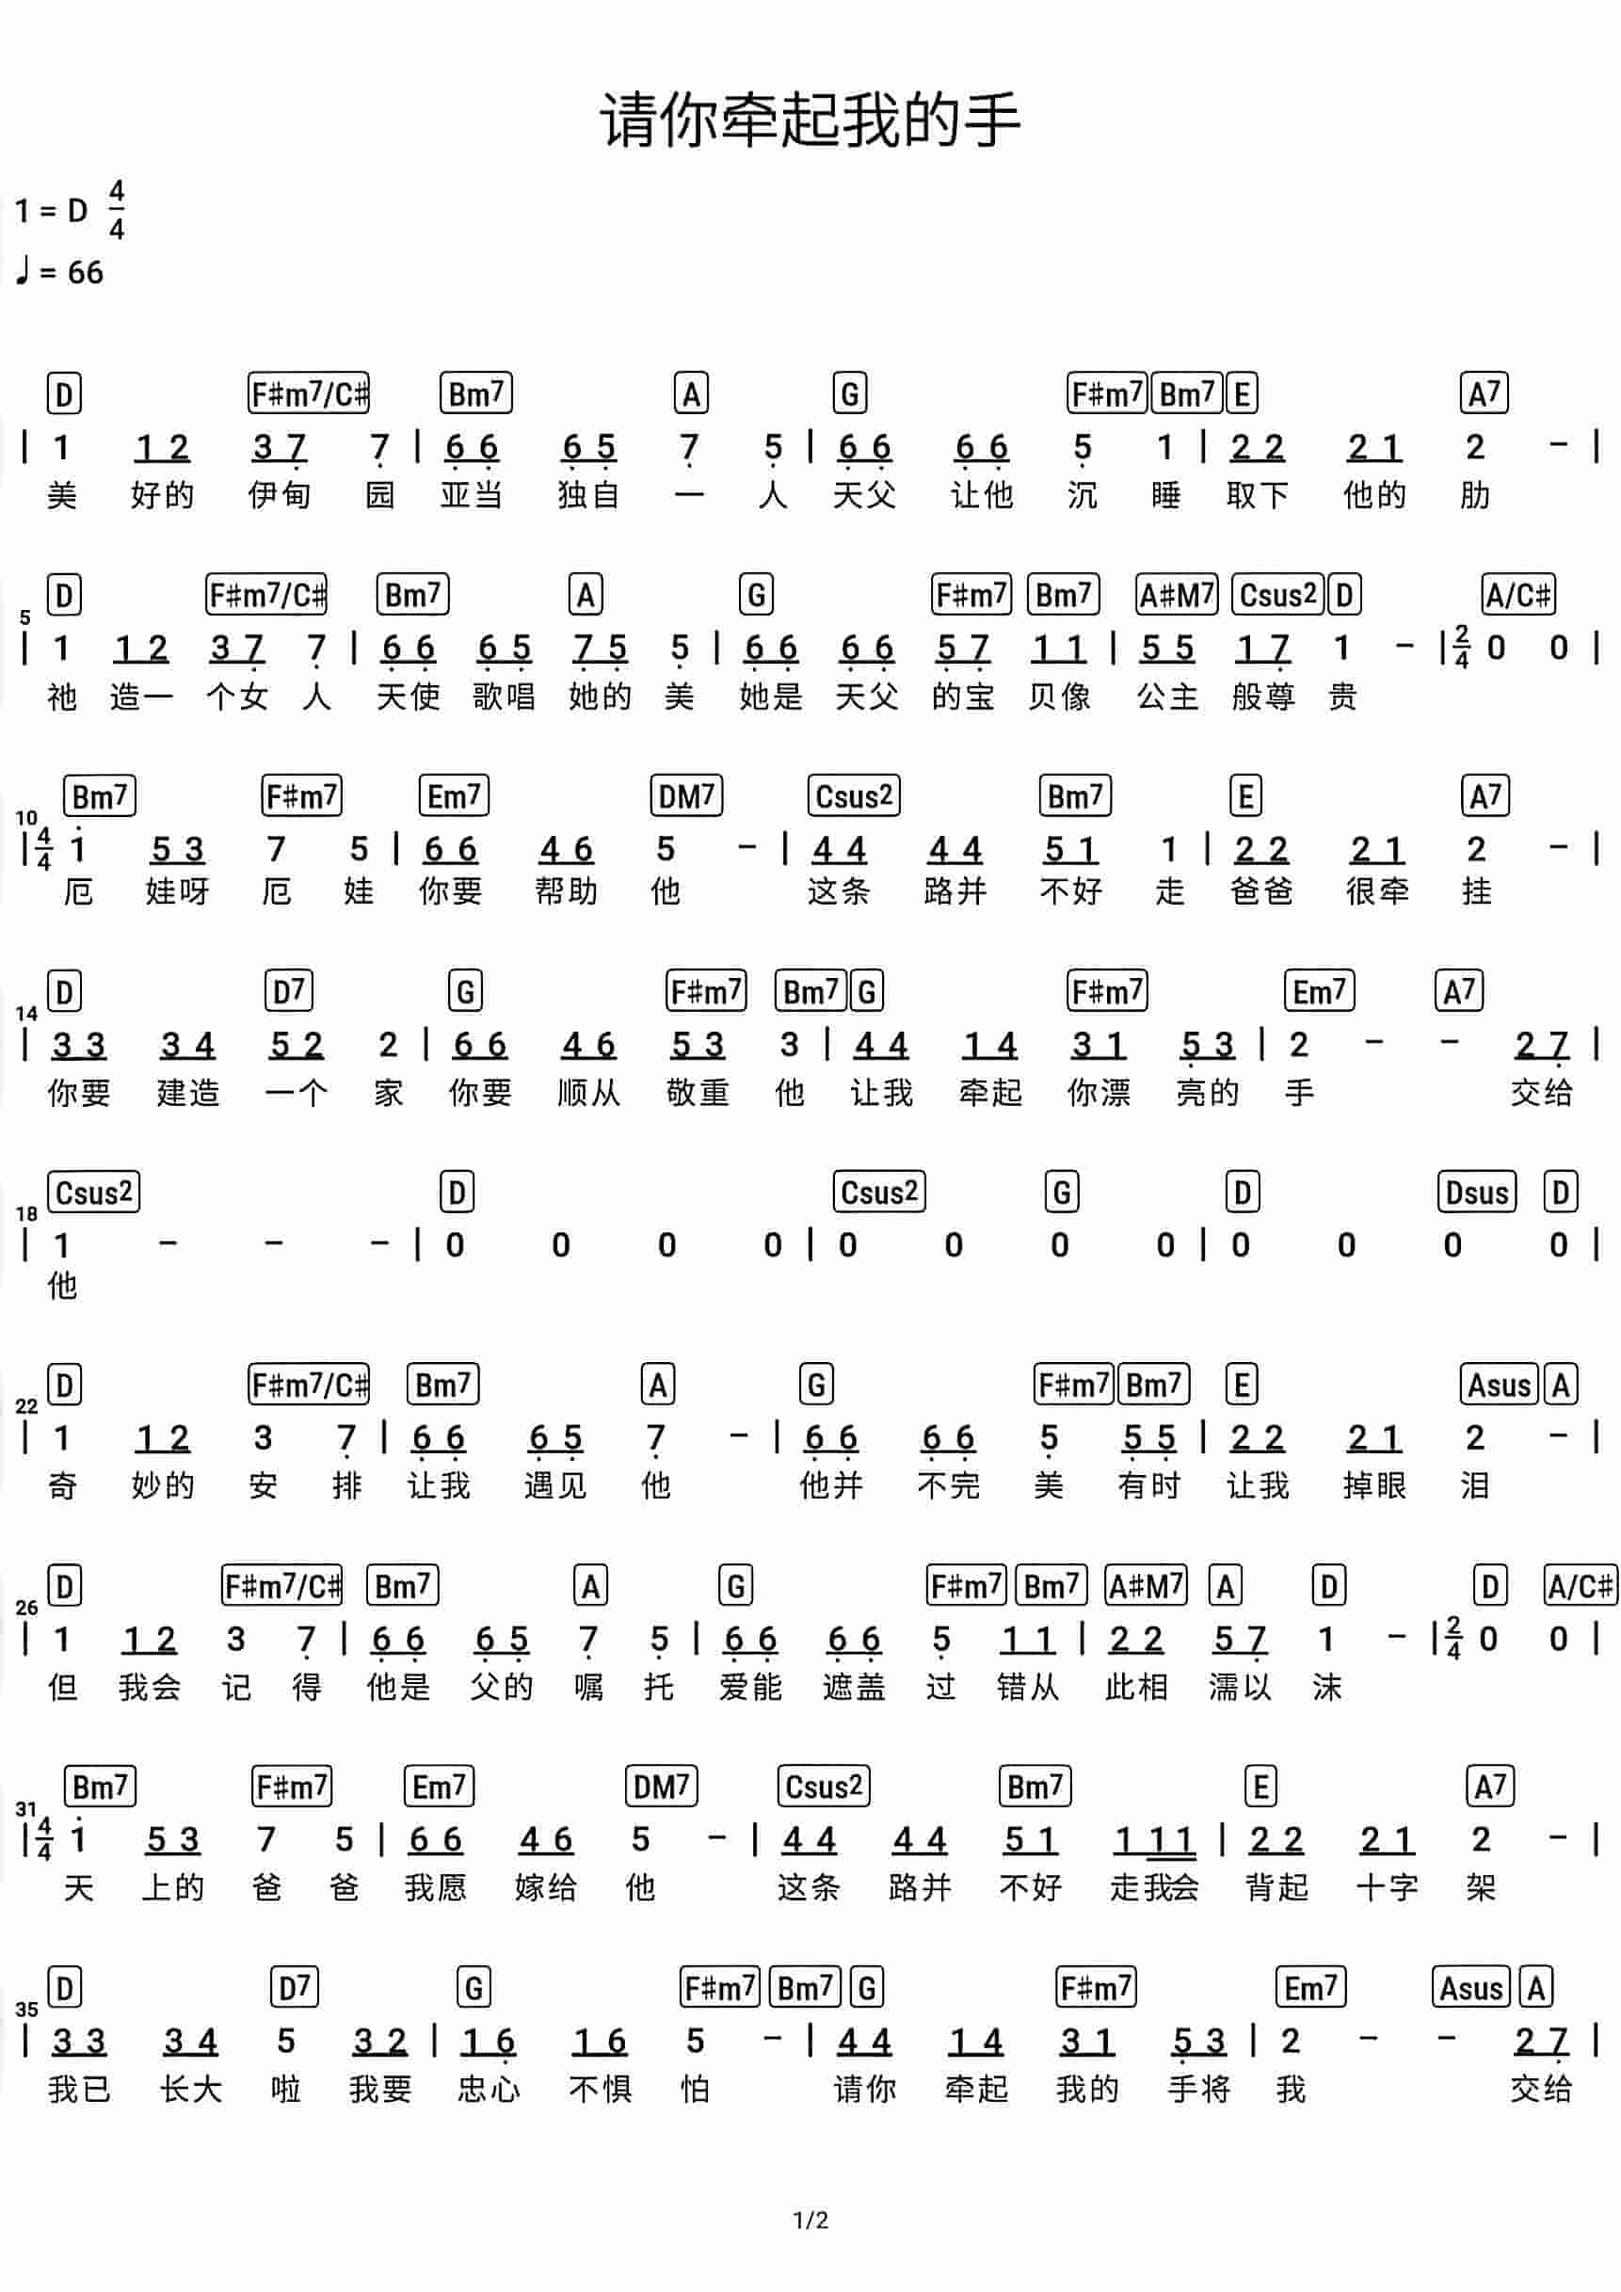
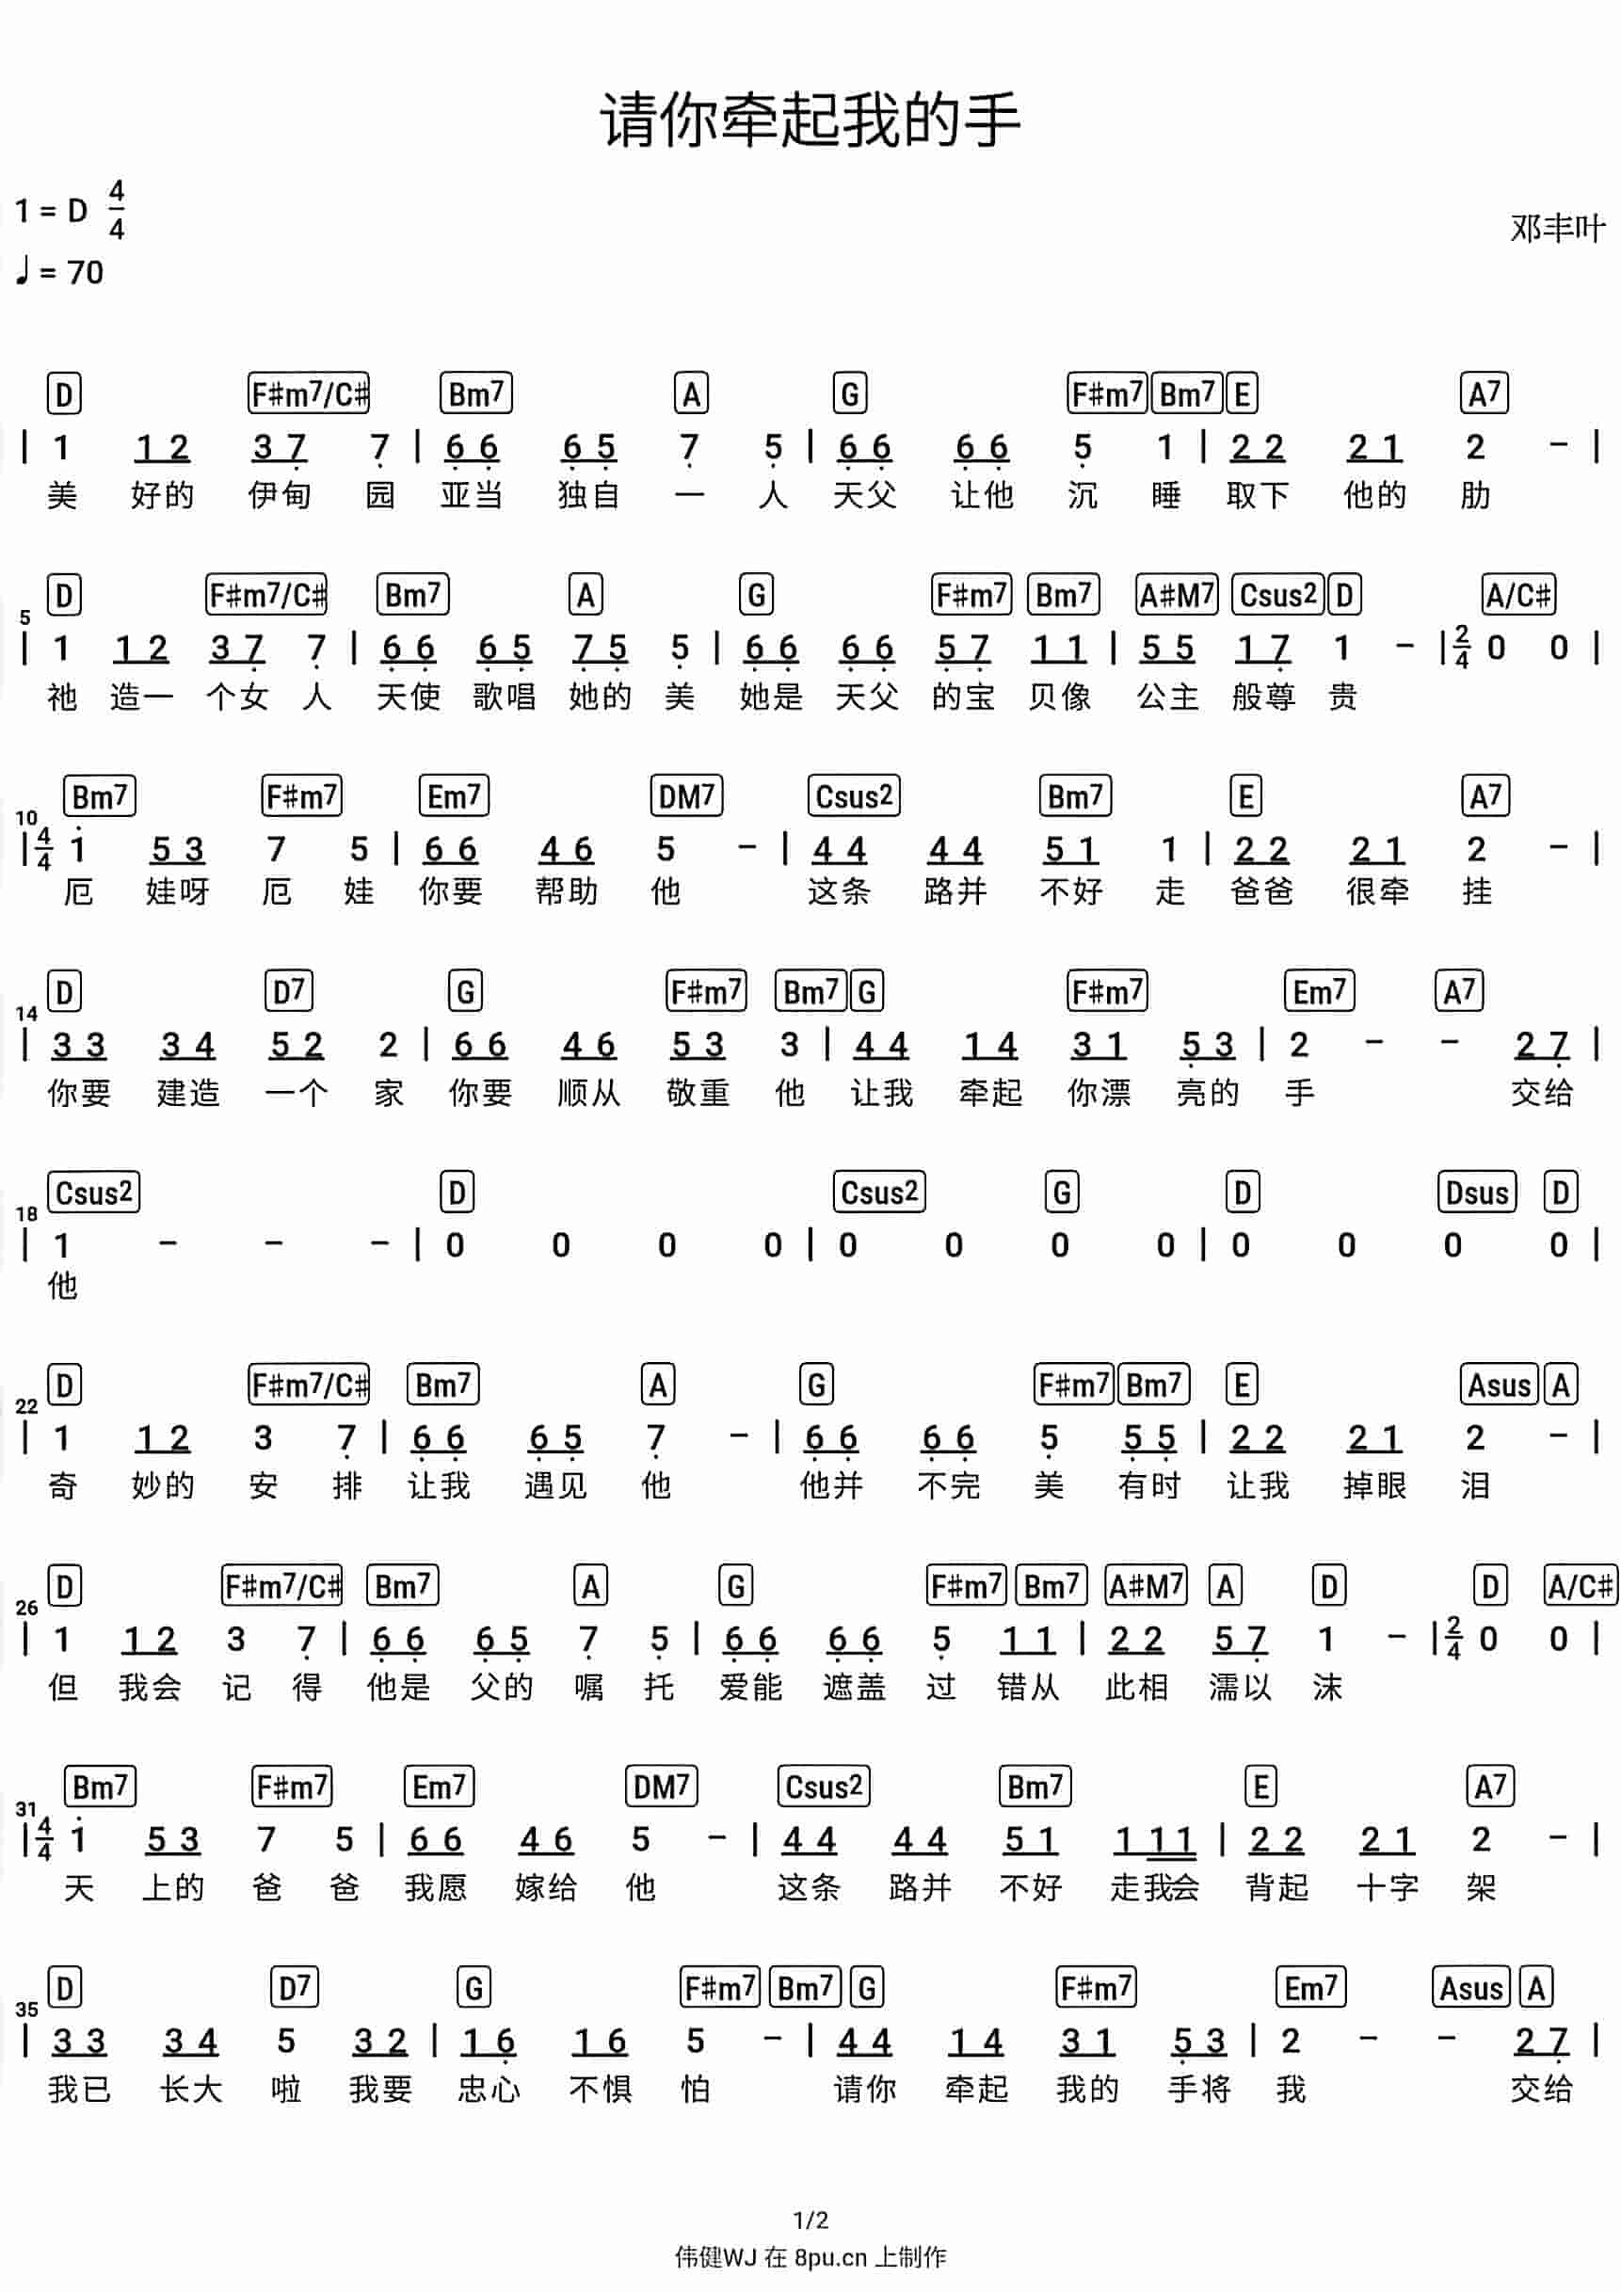
更新《请你牵起我的手》。

diff --git a/index.html b/index.html
@@ -208,6 +208,6 @@
         <div id="modalVersionBtnList" style="display:flex;flex-direction:column;gap:14px;margin-bottom:10px;"></div>
       </div>
     </div>
-    <script src="script.js?v=20260327005700"></script>
+    <script src="script.js?v=20260327011300"></script>
 </body>
 </html>

diff --git a/script.js b/script.js
@@ -1,5 +1,5 @@
 // 在文件开头定义版本号和变量
-const jsonVersion = '20260327005700';
+const jsonVersion = '20260327011300';
 let songsData = {};
 
 // 加载数据的函数
